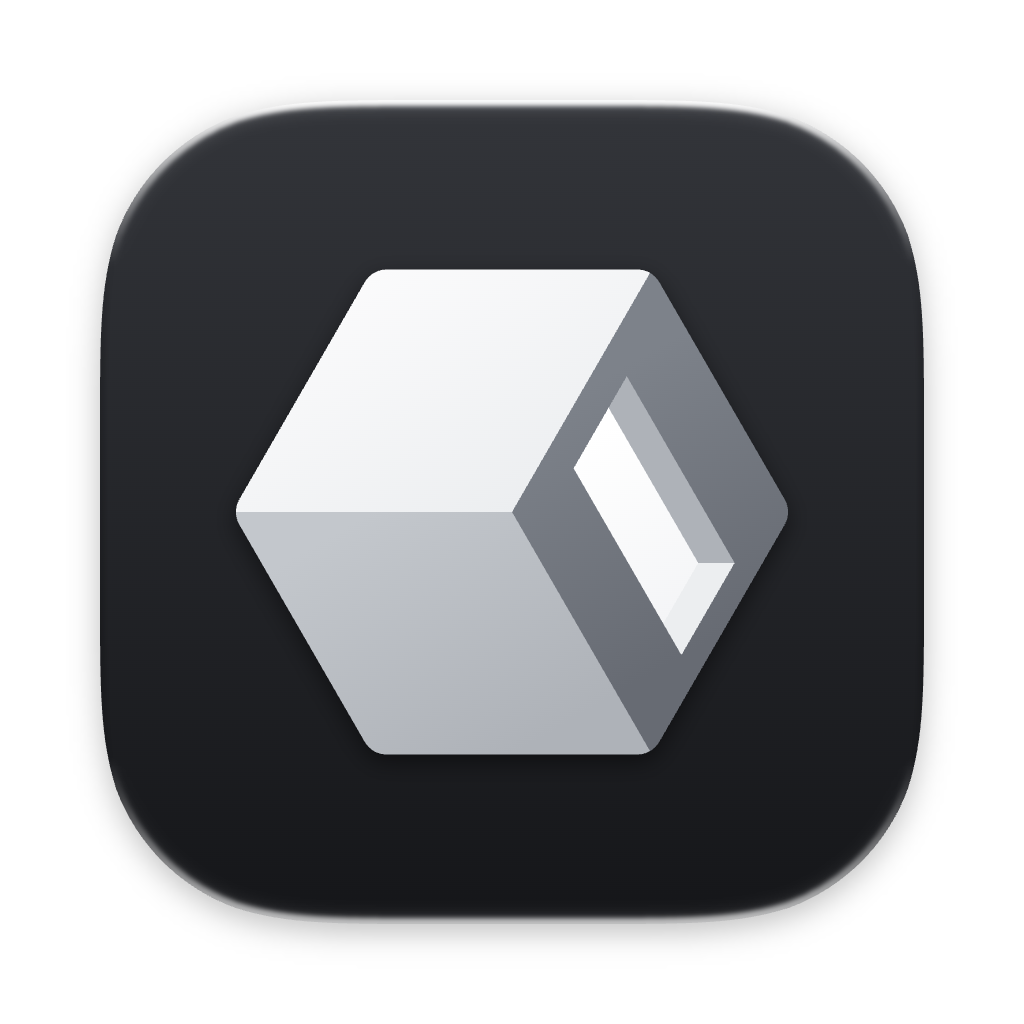
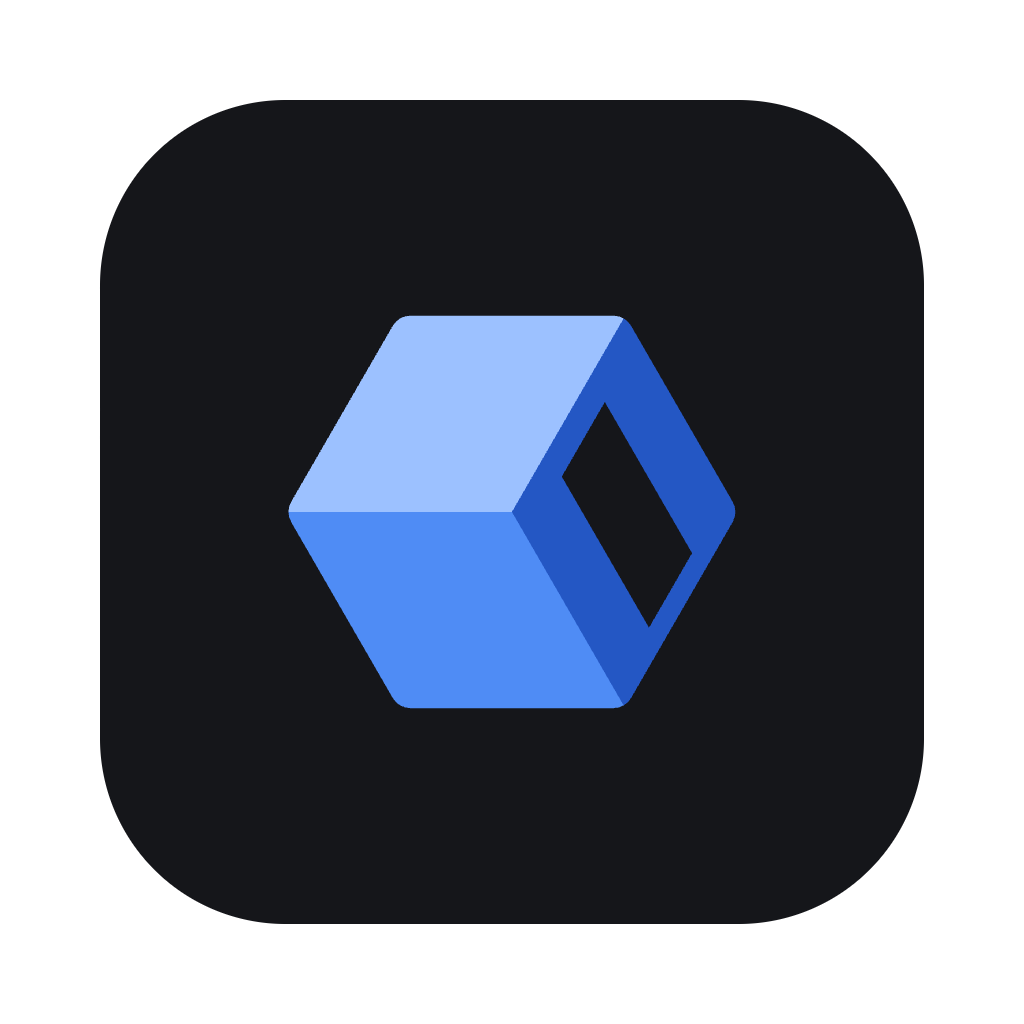
Draw Realm's mark flat across the site: one colour where it is small, three blue planes where it is the app
The favicon is the one-colour mark and follows the browser's colour scheme, with a Realm-blue .ico
behind it and a mask icon for Safari. The header and footer draw the same mark inline in the text
colour. The touch icon, the Dock-shaped app icon, the large mark and the share card's wordmark are
the cube in three flat blues with the doorway cut out. scripts/render-icons.mjs draws all of them.

diff --git a/site/components/Wordmark.tsx b/site/components/Wordmark.tsx
@@ -1,19 +1,32 @@
 /**
- * The standalone vector mark beside the name. The app icon has a shell; the wordmark does not.
+ * The mark beside the name. The app icon has a tile; the wordmark does not.
  *
  * Two sizes: `nav` for the landing page and header, `display` for the share card, where the whole
  * image is read at thumbnail size and a nav-sized mark would be a smudge.
+ *
+ * In the header and footer the mark is one colour, drawn inline so it takes the text's colour. The
+ * share card stands in for the app, so it carries the app icon's three flat planes instead.
+ * scripts/render-icons.mjs draws both from the same silhouette and doorway.
  */
 const sizes = {
   nav: { mark: "h-[26px]", name: "text-[17px]", gap: "gap-3" },
   display: { mark: "h-[64px]", name: "text-[42px]", gap: "gap-5" },
 } as const
 
+const MARK =
+  "M0.5196 24.9A1.8 1.8 0 0 1 0.5196 23.1L9.4804 7.5795A1.8 1.8 0 0 1 11.0392 6.6795L28.9608 6.6795A1.8 1.8 0 0 1 30.5196 7.5795L39.4804 23.1A1.8 1.8 0 0 1 39.4804 24.9L30.5196 40.4205A1.8 1.8 0 0 1 28.9608 41.3205L11.0392 41.3205A1.8 1.8 0 0 1 9.4804 40.4205ZM24.4 20.8823L28.2 14.3005L35.9 27.6373L32.1 34.2191Z"
+
 export function Wordmark({ className, size = "nav" }: { className?: string; size?: keyof typeof sizes }) {
   const s = sizes[size]
   return (
     <span className={`inline-flex items-center ${s.gap} ${className ?? ""}`}>
-      <img src="/realm-mark.svg" alt="" aria-hidden width={22} height={26} className={`${s.mark} w-auto`} />
+      {size === "display" ? (
+        <img src="/realm-mark.svg" alt="" aria-hidden width={40} height={48} className={`${s.mark} w-auto`} />
+      ) : (
+        <svg viewBox="0 0 40 48" aria-hidden className={`${s.mark} w-auto`} fill="currentColor">
+          <path fillRule="evenodd" d={MARK} />
+        </svg>
+      )}
       <span className={`${s.name} font-semibold tracking-[-0.02em]`}>Realm</span>
     </span>
   )

diff --git a/site/app/layout.tsx b/site/app/layout.tsx
@@ -25,6 +25,13 @@ export const metadata: Metadata = {
     description: site.description,
   },
   twitter: { card: "summary_large_image", title: site.name, description: site.description },
+  // Drawn by scripts/render-icons.mjs. The one-colour mark follows the browser's colour scheme;
+  // app/favicon.ico, added by file name, is the fallback for browsers that do not read SVG.
+  icons: {
+    icon: [{ url: "/icon.svg", type: "image/svg+xml" }],
+    apple: [{ url: "/apple-icon.png", sizes: "180x180" }],
+    other: [{ rel: "mask-icon", url: "/mask-icon.svg", color: "#3b7cf0" }],
+  },
 }
 
 export const viewport: Viewport = {

diff --git a/site/README.md b/site/README.md
@@ -111,10 +111,21 @@ Four things the script and the pages are careful about, all of which have bitten
 
 ## The mark, and the glass
 
-`public/realm-mark.svg` is `resources/icon-src/mark.svg` — the cube with a lit doorway, written by
-`resources/icon-src/render.mjs` from `mark.mjs` — and the header draws it beside the name. The
-favicons (`app/icon.png`, `app/apple-icon.png`) and `public/app-icon.png` are the app icon drawn from
-`resources/icon-src/icons.mjs`; the share images come from `/share` (`pnpm capture:share`).
+The mark is flat: the cube's silhouette with the doorway cut out of it. `scripts/render-icons.mjs`
+(`node scripts/render-icons.mjs`) draws every file of it the site serves, two ways:
+
+- **One colour**, for small uses. `public/icon.svg` is the favicon, dark ink on a light tab strip and
+  light ink on a dark one (`prefers-color-scheme`); `app/favicon.ico` is the same mark in white on a
+  Realm-blue tile, for browsers that ask for an .ico; `public/mask-icon.svg` is Safari's pinned tab.
+  The header and footer draw the mark inline beside the name (`components/Wordmark.tsx`), in the
+  text colour.
+- **Three flat planes**, top `#9cc1ff`, left `#4f8cf5`, right `#2457c4`, for the app icon:
+  `public/realm-mark.svg` wherever the page shows the mark large, `public/apple-icon.png` (full-bleed,
+  iOS rounds it) and `public/app-icon.png` (the tile inset the way the Dock draws it). The share
+  images come from `/share` (`pnpm capture:share`), whose wordmark carries this mark.
+
+`app/layout.tsx` lists the icons rather than leaving them to Next's file names, because Safari's mask
+icon has no file convention and naming any icon in the metadata replaces the file-based ones.
 
 `lib/mark.ts` works the mark's geometry out the way `mark.mjs` does: its six faces, the walls and
 the doorway's floor, jamb and lit back. The landing page's field (`lib/dimension/`) assembles, lights
